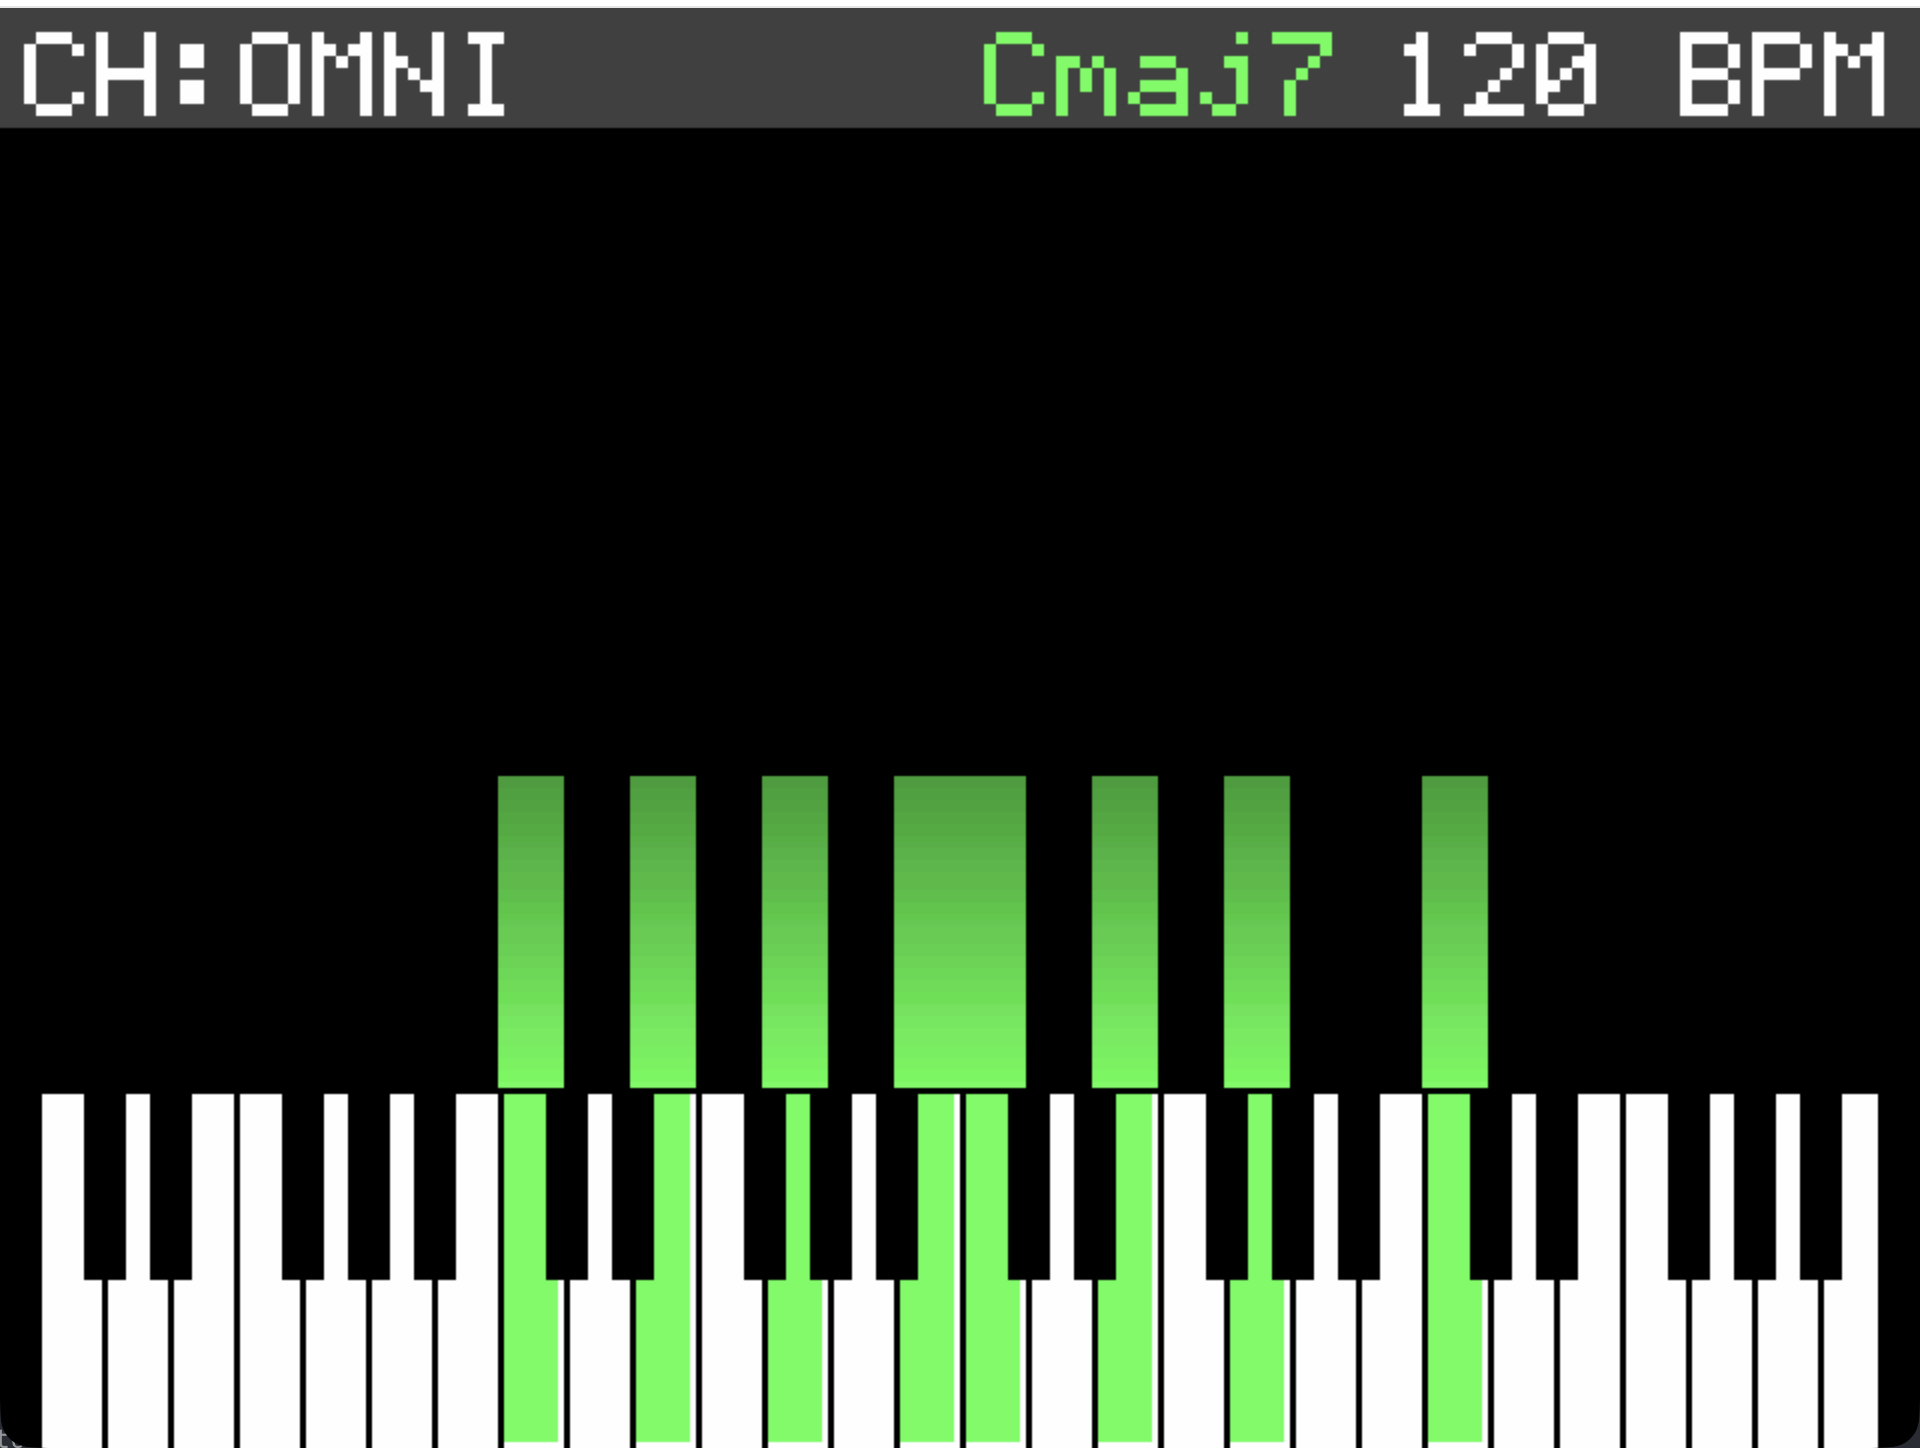
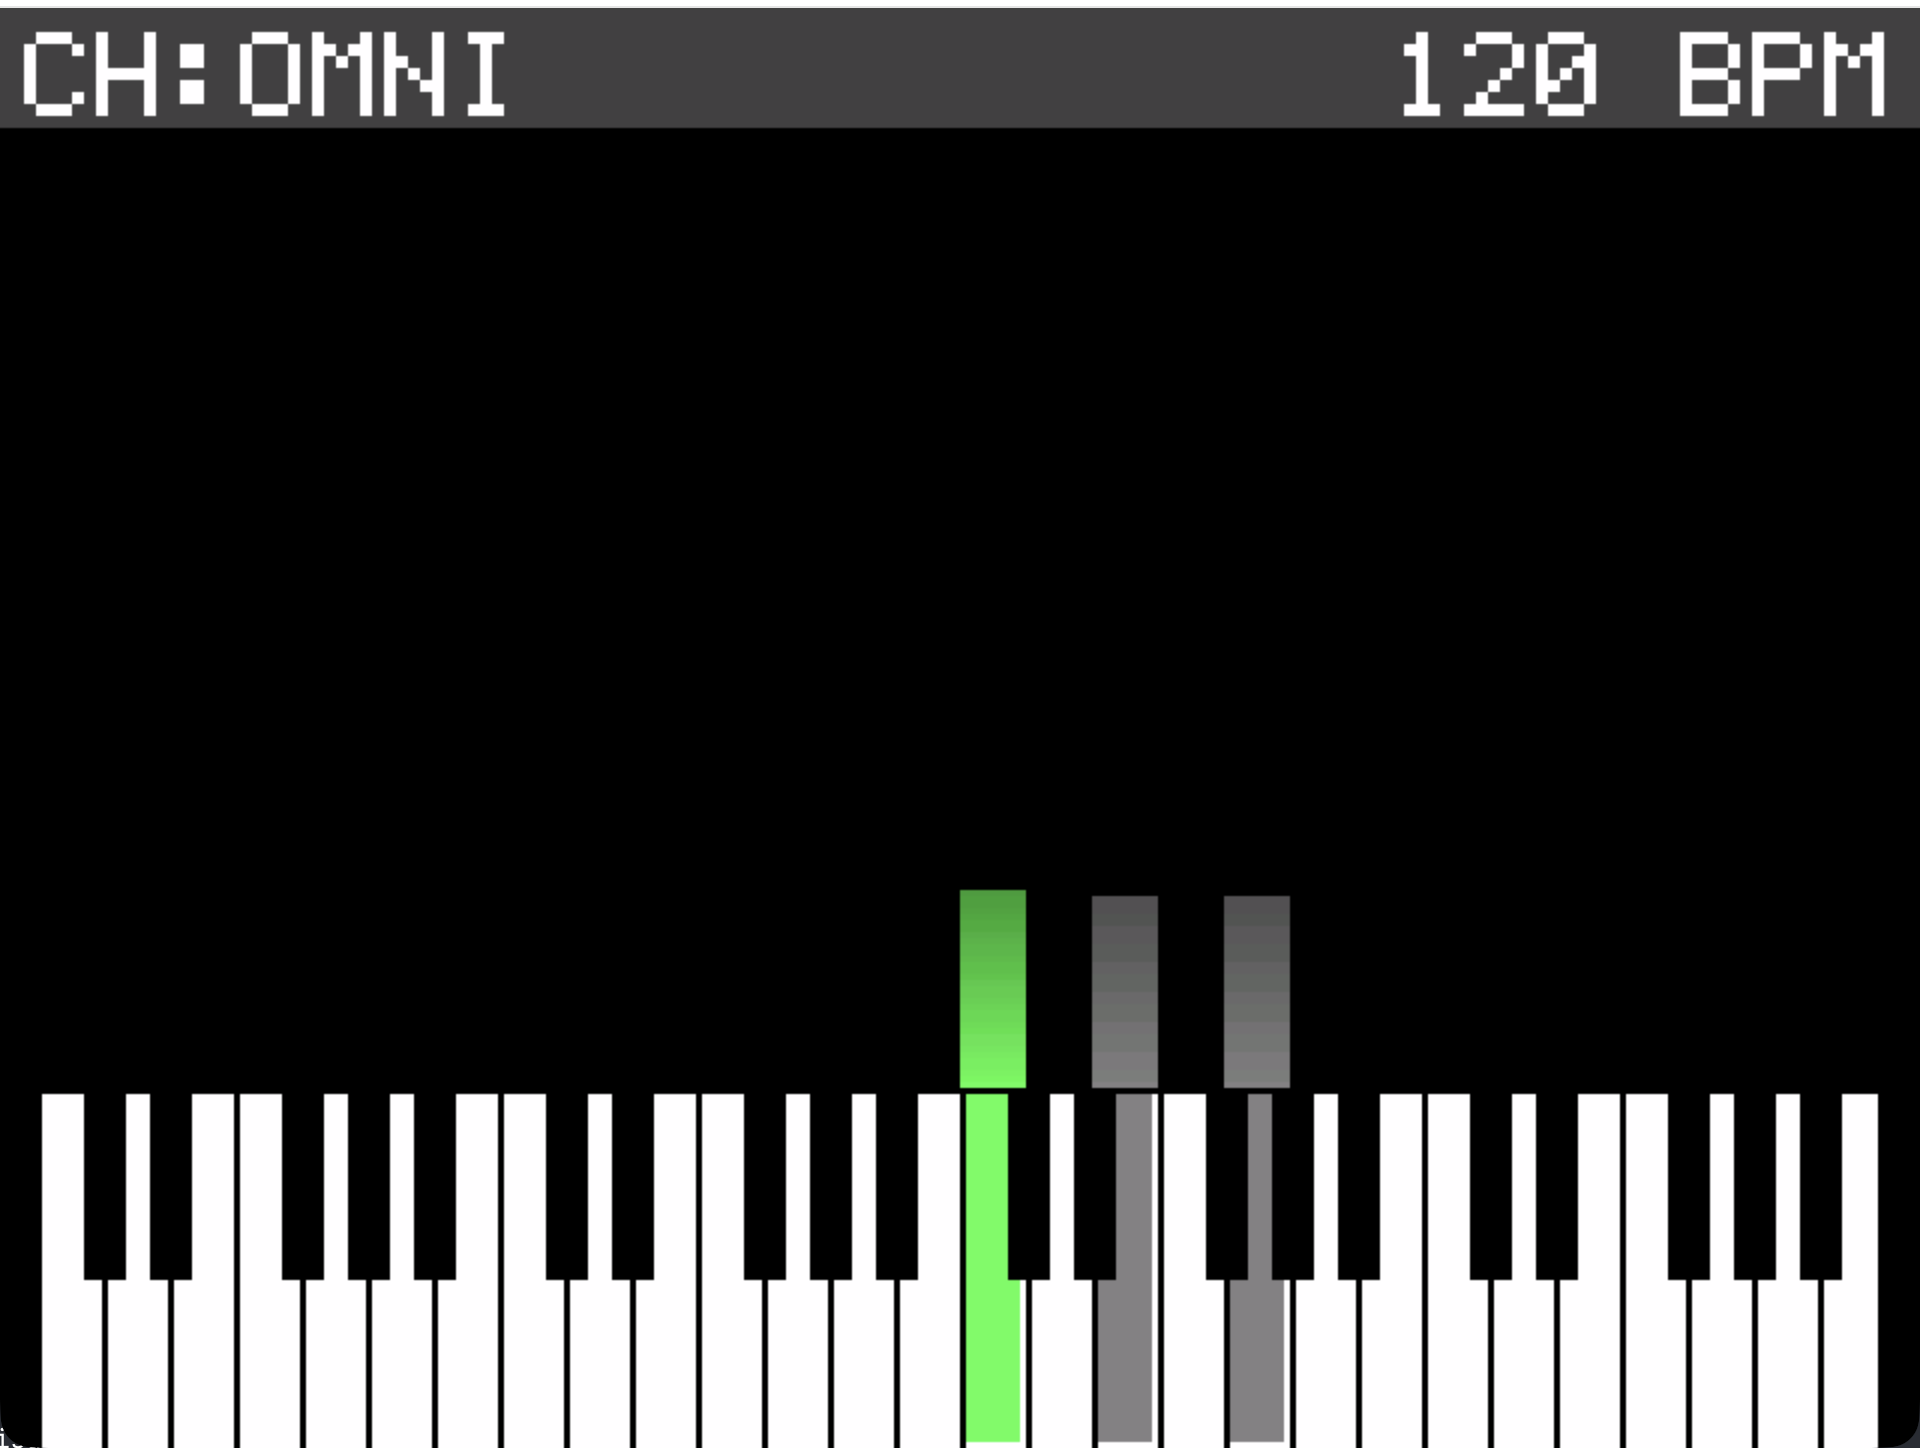
Monitor: visualise engine-played notes as gray worms / keys
The monitor view used to show only incoming MIDI. Now it also shows
notes the chord engine is currently playing, in gray, layered behind
the per-channel input worms so the device's own output reads as a
quiet background voice next to the bright input.

Wiring:

  ChordEngine grew an optional EchoFn callback. tick() and panic()
  invoke it for every NoteOn / NoteOff they push to MidiOutput, so a
  client can mirror the engine's output stream without snooping the
  USB / RtMidi side.

  MidiMonitorApp registers itself as the echo target in its
  constructor. The new onEngineEcho() updates a parallel
  outNotePressedBy_[128] mask and spawns / stops worms tagged with
  Worm::isOutput = true. Same lifetime + scroll machinery as input
  worms; the only differences are the color and the column-split
  rules.

Rendering:

  drawWorms() now runs two passes. Pass 1 paints every output worm
  full-width in gray (with the existing top-to-bottom dimming
  gradient). Pass 2 paints input worms with the per-channel split
  unchanged — output worms are explicitly excluded from the slot
  bookkeeping so they never carve up the column.

  drawKeyboard() layers output highlights behind input. For a given
  key: input present → channel colour; else if output present →
  gray; else unpressed. White and black keys handled the same way.

State plumbing:

  restart(), panic() and setMonitoring(false) clear outNotePressedBy_
  in addition to notePressedBy_, and call chordEngine_.panic() so
[…]

diff --git a/core/MidiMonitorApp.cpp b/core/MidiMonitorApp.cpp
@@ -185,6 +185,62 @@ MidiMonitorApp::MidiMonitorApp() {
     chordEngine_.setBpm(bpm_);
     // The mapping table starts empty — the user defines mappings at
     // runtime via mapping mode (panel switch ON).
+
+    // Receive every note the chord engine plays so we can visualise
+    // it on the monitor (gray worm + gray keyboard highlight).
+    chordEngine_.setEcho(&MidiMonitorApp::engineEchoStatic, this);
+}
+
+void MidiMonitorApp::engineEchoStatic(void* user, const MidiMessage& msg) {
+    static_cast<MidiMonitorApp*>(user)->onEngineEcho(msg);
+}
+
+void MidiMonitorApp::onEngineEcho(const MidiMessage& msg) {
+    if (!noteVisible(msg.data1)) return;
+    if (msg.channel < 1 || msg.channel > 16) return;
+    const uint16_t chBit = static_cast<uint16_t>(1u << (msg.channel - 1));
+
+    if (msg.type == MidiType::NoteOn && msg.data2 != 0) {
+        outNotePressedBy_[msg.data1] |= chBit;
+        // Spawn an output worm — same shape as the input path but with
+        // isOutput = true so the renderer paints it gray.
+        for (int i = 0; i < kMaxWorms; ++i) {
+            if (worms_[i].live) continue;
+            Worm& w   = worms_[i];
+            w.live    = true;
+            w.growing = true;
+            w.isOutput = true;
+            w.note    = msg.data1;
+            w.channel = msg.channel;
+            w.topY    = static_cast<int16_t>(kRollBottom - 1);
+            w.bottomY = static_cast<int16_t>(kRollBottom - 1);
+            w.startMs = lastTickMs_;
+            w.endMs   = 0;
+            return;
+        }
+        return;
+    }
+    if (msg.type == MidiType::NoteOff) {
+        outNotePressedBy_[msg.data1] &= static_cast<uint16_t>(~chBit);
+        // Stop the still-growing output worm for this note + channel.
+        for (int i = 0; i < kMaxWorms; ++i) {
+            Worm& w = worms_[i];
+            if (w.live && w.growing && w.isOutput
+                && w.note == msg.data1 && w.channel == msg.channel) {
+                w.growing = false;
+                w.endMs   = lastTickMs_;
+            }
+        }
+    }
+}
+
+uint8_t MidiMonitorApp::outPressedChannelFor(uint8_t note) const {
+    if (note >= 128) return 0;
+    uint16_t bits = outNotePressedBy_[note];
+    if (bits == 0) return 0;
+    uint8_t ch = 1;
+    while ((bits & 1u) == 0) { bits >>= 1; ++ch; }
+    return ch;
 }
 
 void MidiMonitorApp::setChannel(uint8_t channel) {
@@ -244,9 +300,13 @@ void MidiMonitorApp::restart() {
     splashStartMs_ = lastTickMs_;   // lastTickMs_ already holds "now"
     channel_       = kDefaultChannel;
     monitoring_    = true;
-    for (int i = 0; i < 128; ++i) notePressedBy_[i] = 0;
+    for (int i = 0; i < 128; ++i) notePressedBy_[i]    = 0;
+    for (int i = 0; i < 128; ++i) outNotePressedBy_[i] = 0;
     for (int i = 0; i < kMaxWorms; ++i) worms_[i].live = false;
     for (auto& sl : nameDisplays_) sl.live = false;
+    // Drop any pending chord events so the synth downstream doesn't
+    // keep singing notes that should have been turned off.
+    chordEngine_.panic();
 }
 
 void MidiMonitorApp::toggleView() {
@@ -370,13 +430,16 @@ void MidiMonitorApp::panic() {
     // notes" recovery, not a full reset.
     for (int i = 0; i < 128; ++i) notePressedBy_[i] = 0;
     for (int i = 0; i < kMaxWorms; ++i) {
-        if (worms_[i].live && worms_[i].growing) {
-            worms_[i].growing = false;
-            worms_[i].endMs   = lastTickMs_;
+        Worm& w = worms_[i];
+        if (w.live && w.growing && !w.isOutput) {
+            w.growing = false;
+            w.endMs   = lastTickMs_;
         }
     }
-    // Drop every event the chord engine had queued, sending NoteOffs for
-    // anything currently sounding so the downstream synth doesn't hang.
+    // Drop every event the chord engine had queued. The engine's panic
+    // will echo pending NoteOffs back through onEngineEcho, which
+    // cleans up outNotePressedBy_ and stops every output worm in a
+    // single consistent pass.
     chordEngine_.panic();
 }
 
@@ -403,9 +466,11 @@ void MidiMonitorApp::setMonitoring(bool on) {
         // Clear all visible MIDI state so the panel reflects "muted" rather
         // than a frozen snapshot. Existing worms vanish, every key on the
         // keyboard goes back to unpressed.
-        for (int i = 0; i < 128; ++i) notePressedBy_[i] = 0;
+        for (int i = 0; i < 128; ++i) notePressedBy_[i]    = 0;
+        for (int i = 0; i < 128; ++i) outNotePressedBy_[i] = 0;
         for (int i = 0; i < kMaxWorms; ++i) worms_[i].live = false;
         for (auto& sl : nameDisplays_) sl.live = false;
+        chordEngine_.panic();
     }
 }
 
@@ -652,17 +717,45 @@ void MidiMonitorApp::drawChordNames(Display& d, int rightEdge) const {
 }
 
 void MidiMonitorApp::drawWorms(Display& d) const {
-    // Per-row rendering. At each y we look up which channels currently have
-    // a live worm covering (w.note, y) and split the key column into equal
-    // sub-rects ordered left-to-right by channel number. With only one
-    // channel active the row fills the full key width — identical to the
-    // pre-split behaviour.
+    // Two passes:
+    //   1. Output worms first — full-width, gray, behind everything.
+    //      These visualise notes the chord engine is playing.
+    //   2. Input worms second — per-channel-coloured with the same
+    //      split-on-overlap logic as before. They overdraw the gray so
+    //      a key that is BOTH received and played reads as its input
+    //      channel colour.
     constexpr uint16_t kBottomFactor = 256;
     constexpr uint16_t kTopFactor    = 160;
 
+    // ---- Pass 1: output worms ------------------------------------------
     for (int i = 0; i < kMaxWorms; ++i) {
         const Worm& w = worms_[i];
-        if (!w.live) continue;
+        if (!w.live || !w.isOutput) continue;
+        const KeyRect kr = keyRectFor(w.note);
+        if (kr.x < 0) continue;
+
+        int y0 = w.topY;
+        int y1 = w.bottomY;
+        if (y0 < kRollTop)     y0 = kRollTop;
+        if (y1 >= kRollBottom) y1 = kRollBottom - 1;
+        if (y1 < y0) continue;
+
+        const uint16_t base  = color::Gray;
+        const int      fullH = w.bottomY - w.topY + 1;
+        const int      denom = (fullH > 1) ? (fullH - 1) : 1;
+        for (int y = y0; y <= y1; ++y) {
+            const int rowsFromBottom = w.bottomY - y;
+            const uint16_t factor = static_cast<uint16_t>(
+                kBottomFactor -
+                ((kBottomFactor - kTopFactor) * rowsFromBottom) / denom);
+            d.fillRect(kr.x, y, kr.w, 1, scaleRgb565(base, factor));
+        }
+    }
+
+    // ---- Pass 2: input worms (per-channel split) -----------------------
+    for (int i = 0; i < kMaxWorms; ++i) {
+        const Worm& w = worms_[i];
+        if (!w.live || w.isOutput) continue;
         const KeyRect kr = keyRectFor(w.note);
         if (kr.x < 0) continue;
 
@@ -678,27 +771,22 @@ void MidiMonitorApp::drawWorms(Display& d) const {
         const uint16_t myBit = static_cast<uint16_t>(1u << (w.channel - 1));
 
         for (int y = y0; y <= y1; ++y) {
-            // Bitmask of distinct channels with a live worm covering this
-            // row on the same note. Same-channel duplicates collapse to one
-            // bit so re-triggers don't split the column further.
+            // Only count *input* worms in the slot split — output worms
+            // are a background layer and shouldn't carve up the column.
             uint16_t chMask = 0;
             for (int j = 0; j < kMaxWorms; ++j) {
                 const Worm& o = worms_[j];
-                if (!o.live || o.note != w.note) continue;
+                if (!o.live || o.isOutput) continue;
+                if (o.note != w.note) continue;
                 if (y < o.topY || y > o.bottomY) continue;
                 chMask |= static_cast<uint16_t>(1u << (o.channel - 1));
             }
 
-            // Total channels and this worm's slot (count of lower-numbered
-            // channels also active in this row).
             int slot = 0, total = 0;
             for (uint16_t m = chMask; m; m &= (m - 1)) ++total;
             for (uint16_t m = chMask & (myBit - 1); m; m &= (m - 1)) ++slot;
             if (total == 0) continue;
 
-            // Proportional slot split: each slot gets ceil(kr.w / total)-ish
-            // pixels, with rounding distributed so the last slot fills the
-            // remainder. Avoids 1 px gaps and keeps widths balanced.
             const int slotStart = (kr.w * slot) / total;
             const int slotEnd   = (kr.w * (slot + 1)) / total;
             const int subX      = kr.x + slotStart;
@@ -721,18 +809,19 @@ void MidiMonitorApp::drawKeyboard(Display& d) const {
     // 1) White-key surface.
     d.fillRect(kKeyboardX0, kKeyboardTop, kbW, kbH, color::White);
 
-    // 2) Pressed white-key highlights (inside the separator lines). When
-    //    multiple channels hold the same note, the lowest-numbered channel
-    //    wins the colour — see pressedChannelFor().
+    // 2) Pressed white-key highlights (inside the separator lines).
+    //    Output (engine-played) keys colour gray first; input keys then
+    //    overdraw with their channel colour. When the same key is both
+    //    received and played, the input colour wins.
     for (int wi = 0; wi < kWhiteKeysVisible; ++wi) {
-        const uint8_t note = whiteKeyAt(wi);
-        const uint8_t ch   = pressedChannelFor(note);
-        if (ch) {
-            const int x = kKeyboardX0 + wi * kWhiteKeyW;
-            d.fillRect(x + 1, kKeyboardTop + 1,
-                       kWhiteKeyW - 2, kbH - 2,
-                       channelColor(ch));
-        }
+        const uint8_t note    = whiteKeyAt(wi);
+        const uint8_t inCh    = pressedChannelFor(note);
+        const uint8_t outCh   = outPressedChannelFor(note);
+        if (inCh == 0 && outCh == 0) continue;
+        const int x = kKeyboardX0 + wi * kWhiteKeyW;
+        const uint16_t fill = (inCh != 0) ? channelColor(inCh) : color::Gray;
+        d.fillRect(x + 1, kKeyboardTop + 1,
+                   kWhiteKeyW - 2, kbH - 2, fill);
     }
 
     // 3) White-key separators and the keyboard's top edge.
@@ -749,9 +838,13 @@ void MidiMonitorApp::drawKeyboard(Display& d) const {
         const KeyRect kr = keyRectFor(note);
         if (kr.x < 0) continue;
 
-        const uint8_t ch    = pressedChannelFor(note);
-        const bool    pressed = ch != 0;
-        const uint16_t fill = pressed ? channelColor(ch) : color::Black;
+        const uint8_t  inCh    = pressedChannelFor(note);
+        const uint8_t  outCh   = outPressedChannelFor(note);
+        const bool     pressed = (inCh != 0) || (outCh != 0);
+        const uint16_t fill =
+            (inCh != 0) ? channelColor(inCh) :
+            (outCh != 0) ? color::Gray :
+                           color::Black;
         d.fillRect(kr.x, kKeyboardTop, kr.w, kBlackKeyH, fill);
 
         if (pressed) {

diff --git a/core/MidiMonitorApp.h b/core/MidiMonitorApp.h
@@ -141,18 +141,23 @@ private:
 
     // ---- State -------------------------------------------------------
     struct Worm {
-        bool     live    = false;
-        bool     growing = false;
-        uint8_t  note    = 0;
-        uint8_t  channel = 0;
-        int16_t  topY    = 0;   // smaller y == higher on screen
-        int16_t  bottomY = 0;
+        bool     live     = false;
+        bool     growing  = false;
+        // True when the worm represents a note the chord engine is
+        // playing (rather than a note arriving on the MIDI input).
+        // Rendered in gray so it visually sits "behind" the input
+        // worms.
+        bool     isOutput = false;
+        uint8_t  note     = 0;
+        uint8_t  channel  = 0;
+        int16_t  topY     = 0;   // smaller y == higher on screen
+        int16_t  bottomY  = 0;
         // Wall-clock timestamps in milliseconds. Used by the notation
         // view to scroll note-heads horizontally and freeze the duration
         // bar's right edge when the note is released. `endMs` is only
         // meaningful when `growing` is false.
-        uint32_t startMs = 0;
-        uint32_t endMs   = 0;
+        uint32_t startMs  = 0;
+        uint32_t endMs    = 0;
     };
     static constexpr int kMaxWorms = 64;
 
@@ -167,6 +172,12 @@ private:
     // detection and for correct keyboard highlighting when more than one
     // channel plays the same note simultaneously.
     uint16_t notePressedBy_[128]     = {};
+
+    // Same shape as notePressedBy_, but tracks notes the chord engine
+    // itself is currently playing back through the MIDI output. Lets
+    // the monitor view show "the device is playing X" alongside the
+    // incoming notes, rendered in gray.
+    uint16_t outNotePressedBy_[128]  = {};
 
     Worm     worms_[kMaxWorms]       {};
     uint32_t lastTickMs_             = 0;
@@ -263,6 +274,15 @@ private:
     // Used by the keyboard-highlight code to pick a fill colour when more
     // than one channel is sustaining the same note.
     uint8_t pressedChannelFor(uint8_t note) const;
+
+    // Same for engine-output notes.
+    uint8_t outPressedChannelFor(uint8_t note) const;
+
+    // Plumbing for the chord engine's echo. Static dispatcher is set on
+    // the engine at construction time; the per-instance handler updates
+    // outNotePressedBy_ and spawns / stops output worms.
+    static void engineEchoStatic(void* user, const MidiMessage& msg);
+    void onEngineEcho(const MidiMessage& msg);
 
     // Writes a chord name like "Cmaj7", "Am", "G/B" to `out` when channel
     // `ch` is sustaining 3+ notes that match a known triad/seventh.

diff --git a/core/ChordEngine.cpp b/core/ChordEngine.cpp
@@ -161,6 +161,14 @@ void ChordEngine::tick(uint32_t nowMs) {
         } else {
             out_->sendNoteOff(ev.channel, ev.note);
         }
+        if (echoFn_) {
+            MidiMessage m{};
+            m.type    = ev.isOn ? MidiType::NoteOn : MidiType::NoteOff;
+            m.channel = ev.channel;
+            m.data1   = ev.note;
+            m.data2   = ev.isOn ? ev.velocity : static_cast<uint8_t>(0);
+            echoFn_(echoUser_, m);
+        }
         ev.alive = false;
     }
 }
@@ -172,6 +180,14 @@ void ChordEngine::panic() {
                 // Best-effort: fire pending NoteOffs so we don't leave
                 // notes hanging on the downstream synth.
                 out_->sendNoteOff(ev.channel, ev.note);
+                if (echoFn_) {
+                    MidiMessage m{};
+                    m.type    = MidiType::NoteOff;
+                    m.channel = ev.channel;
+                    m.data1   = ev.note;
+                    m.data2   = 0;
+                    echoFn_(echoUser_, m);
+                }
             }
         }
     }

diff --git a/core/ChordEngine.h b/core/ChordEngine.h
@@ -57,6 +57,15 @@ public:
     void setOutput(MidiOutput* out) { out_ = out; }
     void setBpm(uint16_t bpm)       { bpm_ = (bpm > 0) ? bpm : 120; }
 
+    // Optional "echo" callback fired immediately after the engine
+    // sends each note event. Used by the monitor to visualise notes
+    // the device itself is playing. The callback receives the same
+    // MidiMessage that was sent to MidiOutput. Plain C-style function
+    // pointer (lambda without captures works) so we stay free of
+    // std::function in the embedded build.
+    using EchoFn = void(*)(void* user, const MidiMessage& msg);
+    void setEcho(EchoFn fn, void* user) { echoFn_ = fn; echoUser_ = user; }
+
     // Mapping management.
     void clearMappings();
     bool addMapping(const Mapping& m);    // returns false if pool is full
@@ -106,6 +115,8 @@ private:
     Event       events_[kMaxEvents]{};
     MidiOutput* out_ = nullptr;
     uint16_t    bpm_ = 120;
+    EchoFn      echoFn_   = nullptr;
+    void*       echoUser_ = nullptr;
 };
 
 } // namespace core
